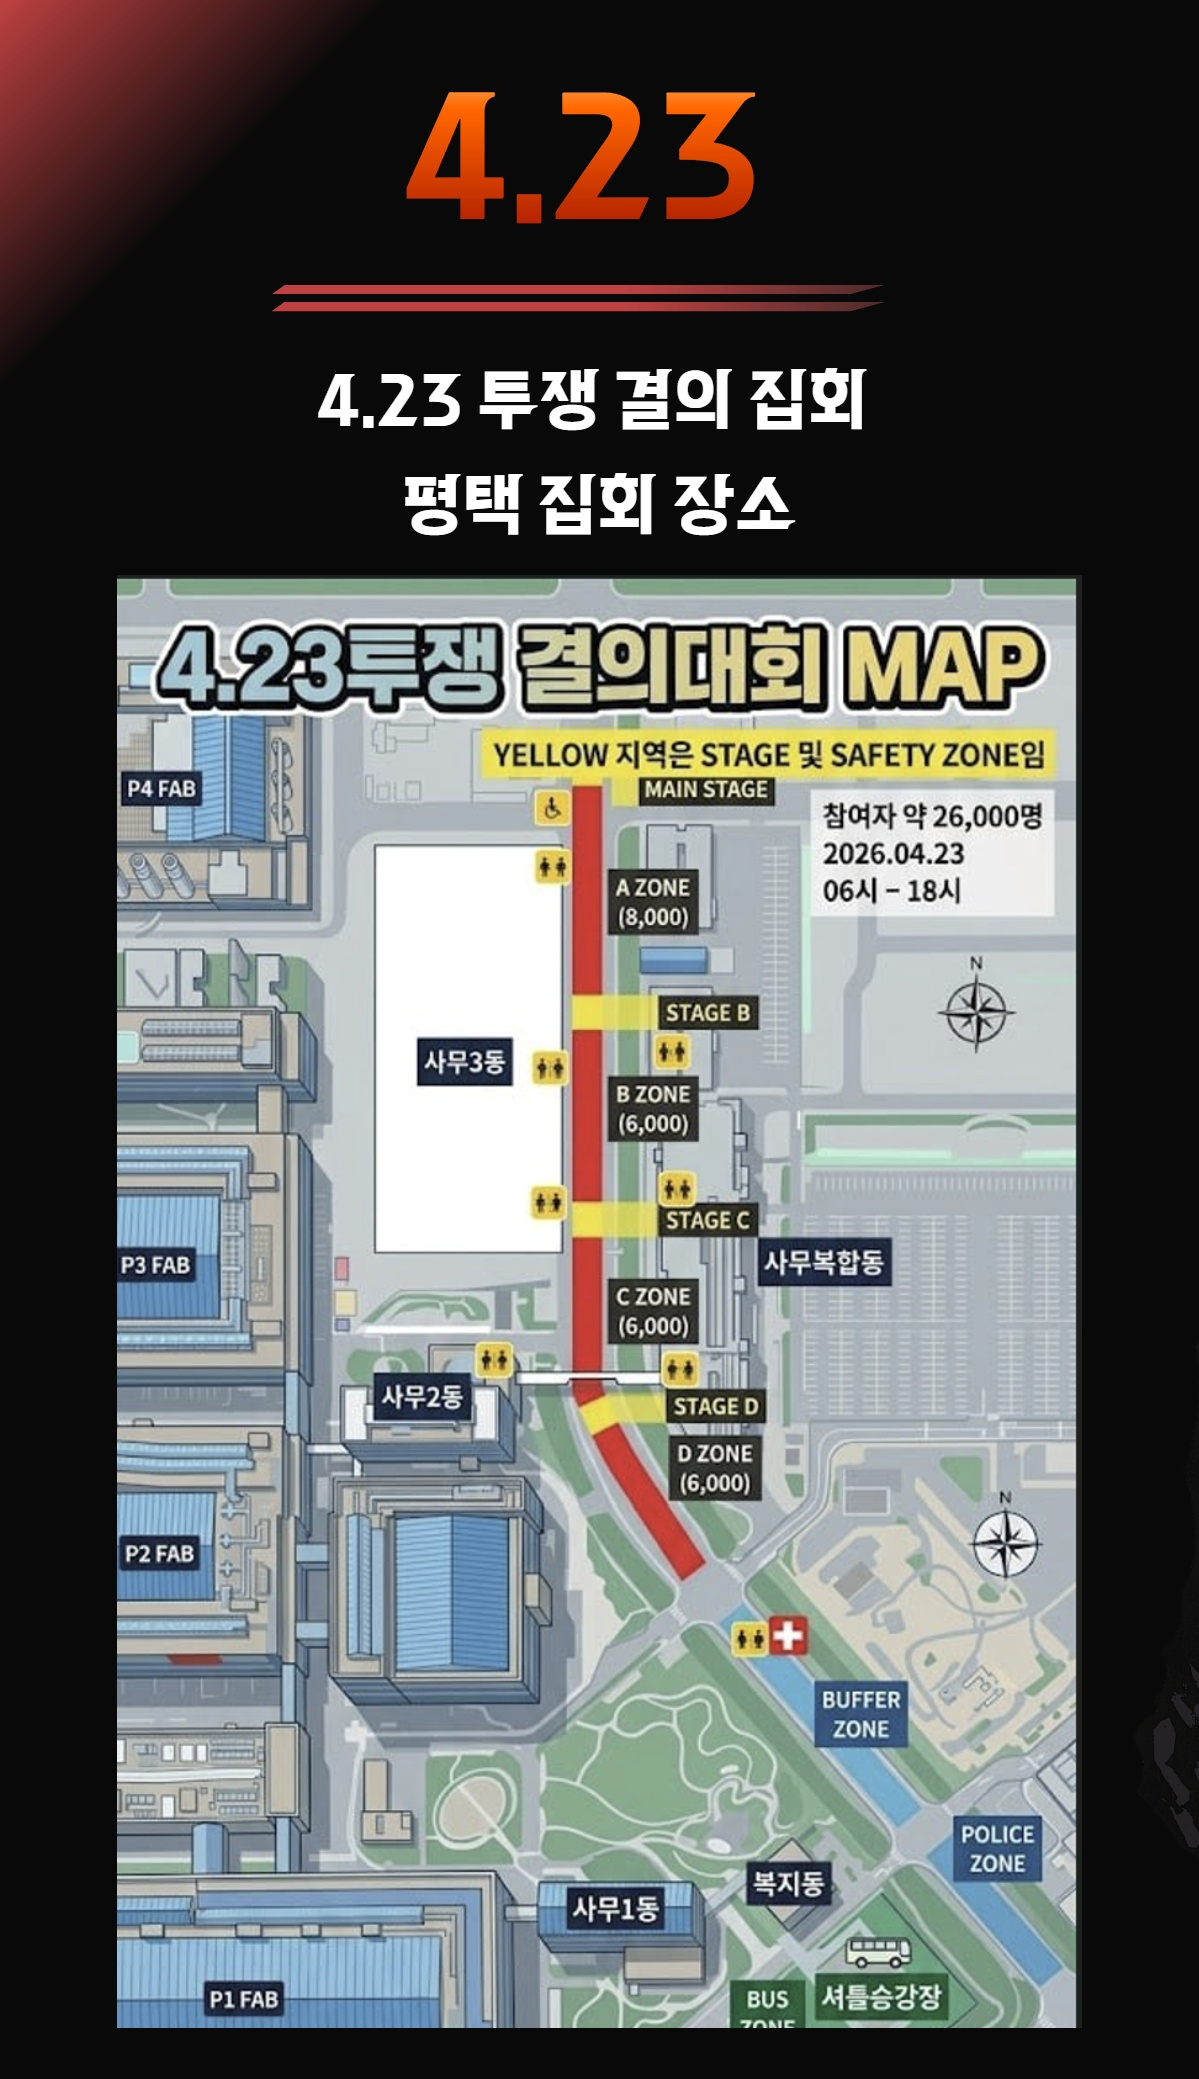
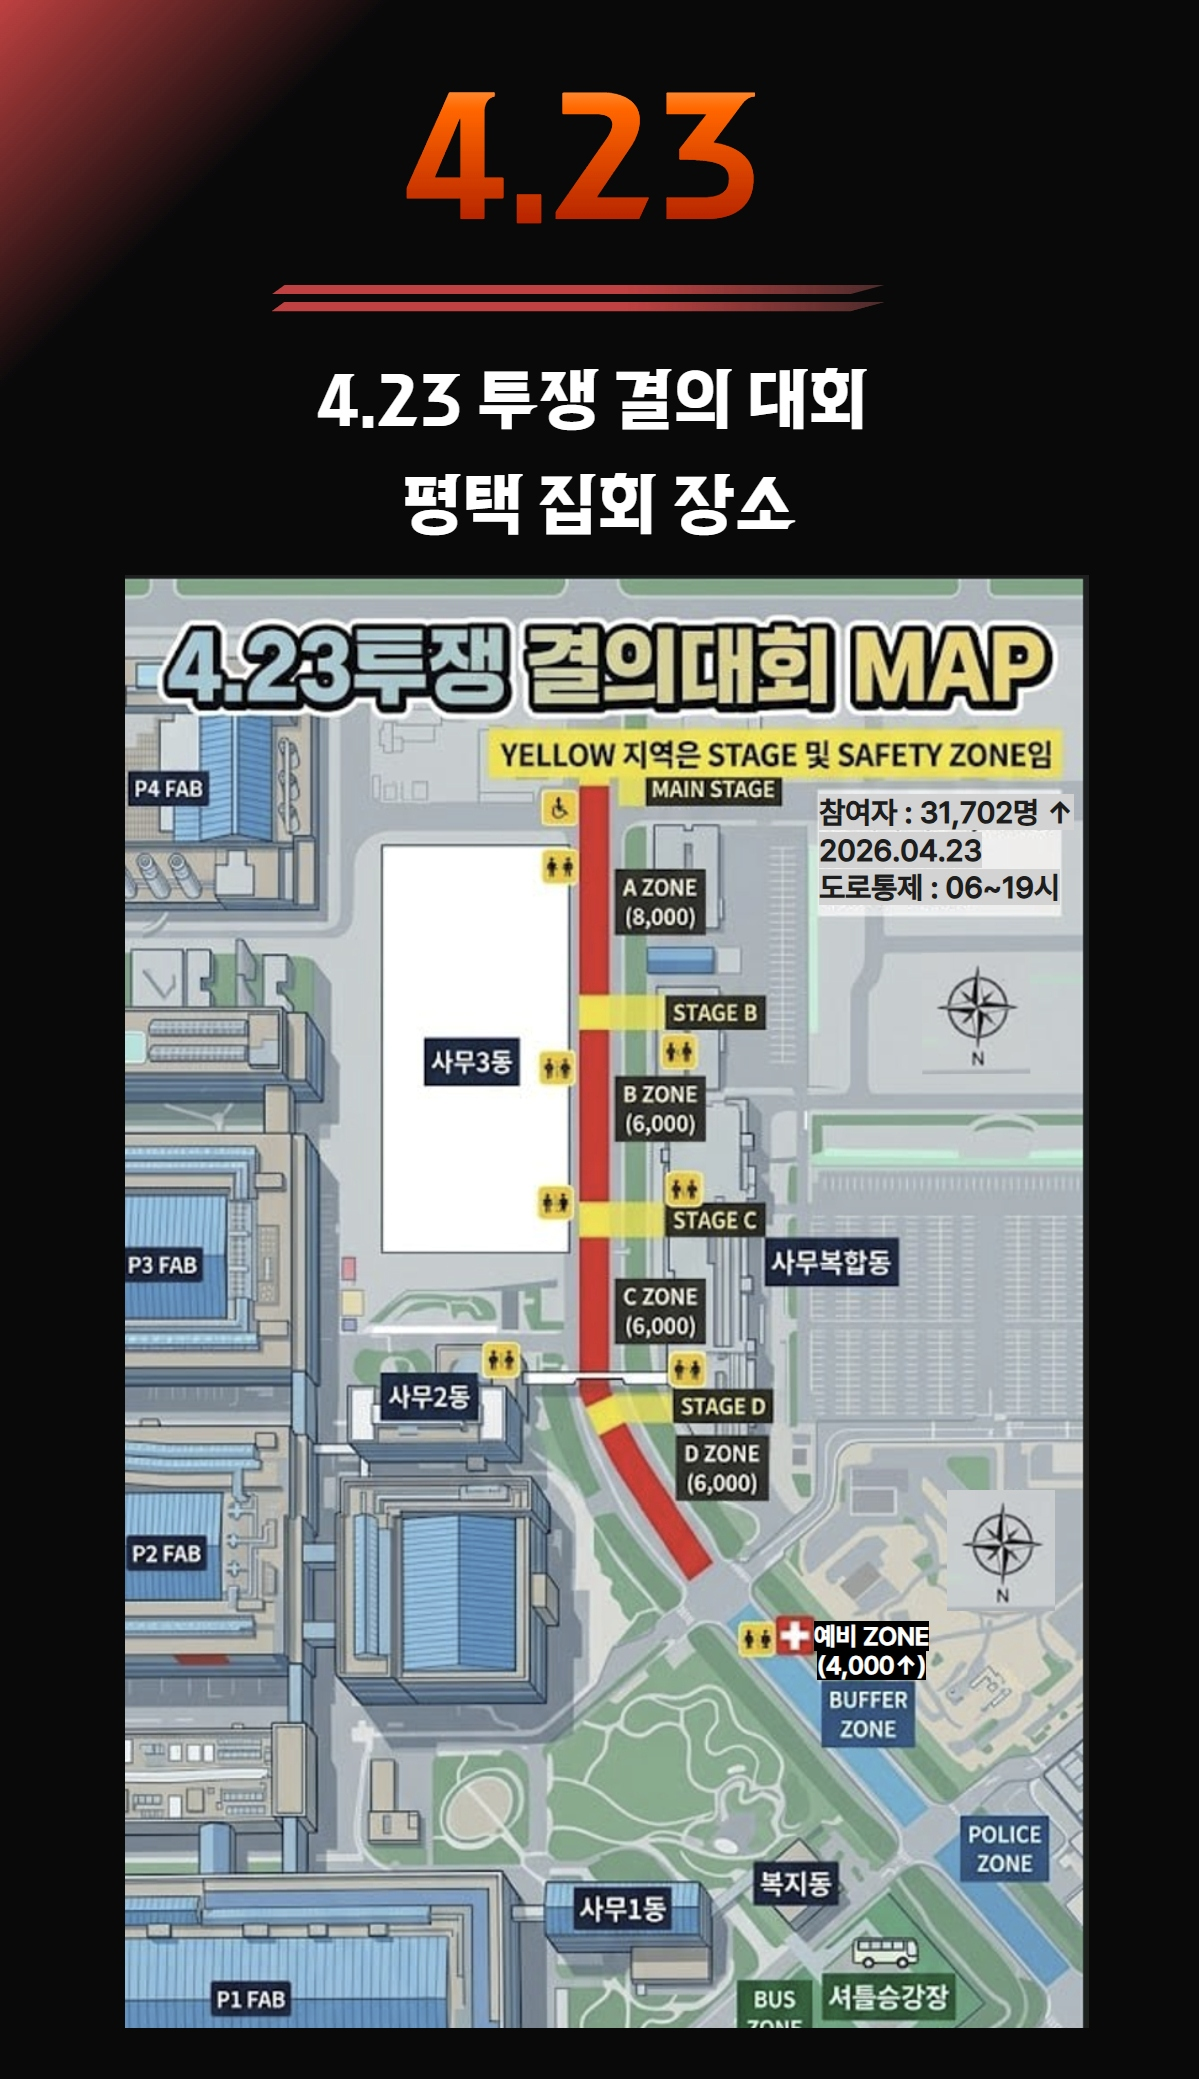
버스배차 4월8일 7시반 집회시간 추가

diff --git a/index - 복사본.html b/index - 복사본.html
@@ -31,77 +31,8 @@
 <link href="https://fonts.googleapis.com/css2?family=Black+Han+Sans&family=Noto+Sans+KR:wght@300;400;700;900&display=swap" rel="stylesheet">
 
 <style>
-  .hero-row{
-  display:flex;
-  align-items:flex-end;
-  justify-content:space-between;
-  gap:28px;
-}
-
-.hero-copy{
-  min-width:0;
-  flex:1 1 auto;
-}
-
-.hero-schedule{
-  flex:0 0 auto;
-  display:flex;
-  flex-direction:column;
-  gap:12px;
-  align-items:flex-start;
-  padding-bottom:40px;
-}
-
-.hero-schedule-item{
-  display:flex;
-  align-items:baseline;
-  gap:10px;
-  white-space:nowrap;
-  font-family:'Black Han Sans',sans-serif;
-  color:rgba(240,237,232,.92);
-}
-
-.hero-schedule-label{
-  font-size:clamp(18px,1.5vw,28px);
-  color:hsl(0, 100%, 50%);
-  letter-spacing:.01em;
-}
-
-.hero-schedule-value{
-  font-size:clamp(22px,2vw,36px);
-  color:#F0EDE8;
-  letter-spacing:-.02em;
-}
-
-@media(max-width:1100px){
-  .hero-row{
-    flex-direction:column;
-    align-items:flex-start;
-    gap:18px;
-  }
-
-  .hero-schedule{
-    padding-bottom:0;
-    gap:8px;
-  }
-}
-
-@media(max-width:767px){
-  .hero-schedule-item{
-    gap:8px;
-    white-space:normal;
-  }
-
-  .hero-schedule-label{
-    font-size:40px;
-  }
-
-  .hero-schedule-value{
-    font-size:40px;
-  }
-}
   .earnings-line{
-  margin-top:25px;
+  margin-top:18px;
   display:flex;
   align-items:baseline;
   gap:10px;
@@ -378,18 +309,7 @@ body{font-family:'Noto Sans KR',sans-serif;background:#0A0A0A;color:#F0EDE8;min-
       <div class="date-hero"><span class="red">4</span><span class="dim">.</span><span>23</span></div>
       <div class="rule"></div>
       <div class="event-sub">4.23 투쟁 결의대회</div>
-<div class="hero-row">
-  <div class="hero-copy">
-    <div class="headline">평택에서 <br><span class="accent">함께 선다</span></div>
-  </div>
-
-  <div class="hero-schedule">
-    <div class="hero-schedule-item">
-      <span class="hero-schedule-label">집회시간 :</span>
-      <span class="hero-schedule-value">13:00-15:30</span>
-    </div>
-  </div>
-</div>
+      <div class="headline">평택에서 <br><span class="accent">함께 선다</span></div>
       <p class="sub">
         우리가 만든 성과, 왜 50%에서 막히는가.<br>
         <strong>OPI 상한 폐지</strong>와 <strong>투명한 성과급</strong>을 요구한다.<br>
